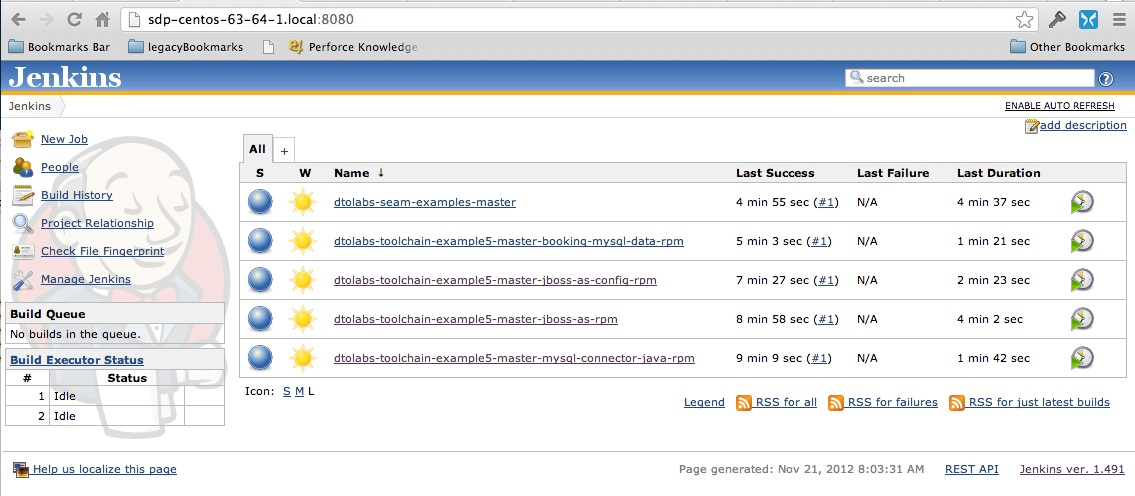
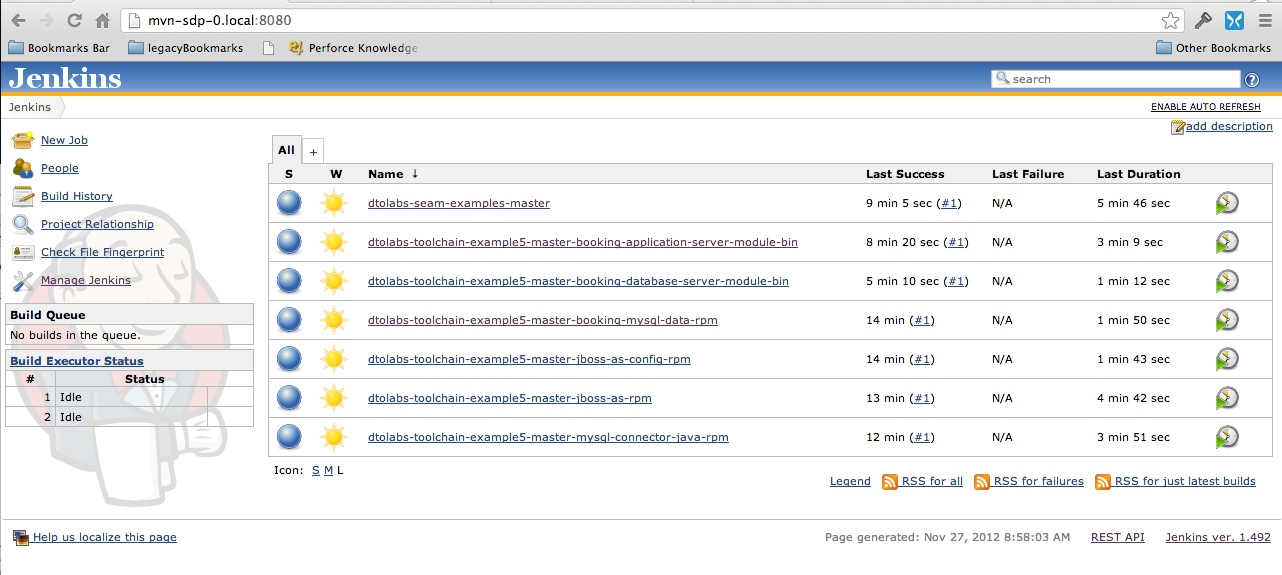
add future doc images

Changed region(s): [[0.0, 0.0, 1.0, 0.9677], [0.5859, 0.9073, 1.0, 0.9677], [0.7709, 0.6653, 0.8018, 0.6956]]

diff --git a/README.md b/README.md
@@ -201,6 +201,12 @@ nohup: redirecting stderr to stdout
 * Append Rundeck Public SSH Key to your own authorized_keys file
 <pre>
 [chuck@sdp-centos-63-64-1 ]$ sudo cat /var/lib/rundeck/.ssh/id_rsa.pub >> $HOME/.ssh/authorized_keys
+[chuck@mvn-sdp-0 toolchain-example5]$ sudo su - rundeck
+[rundeck@mvn-sdp-0 ~]$ set -o vi
+[rundeck@mvn-sdp-0 ~]$ ssh chuck@localhost id
+uid=500(chuck) gid=500(chuck) groups=500(chuck),10(wheel),503(jboss-as)
+[rundeck@mvn-sdp-0 ~]$ exit
+[chuck@mvn-sdp-0 toolchain-example5]$ 
 </pre>
 
 * Run the deploy-seam-booking deploy job... TODO: display dtolabs-toolchain-example5-deploy-seam-booking here
